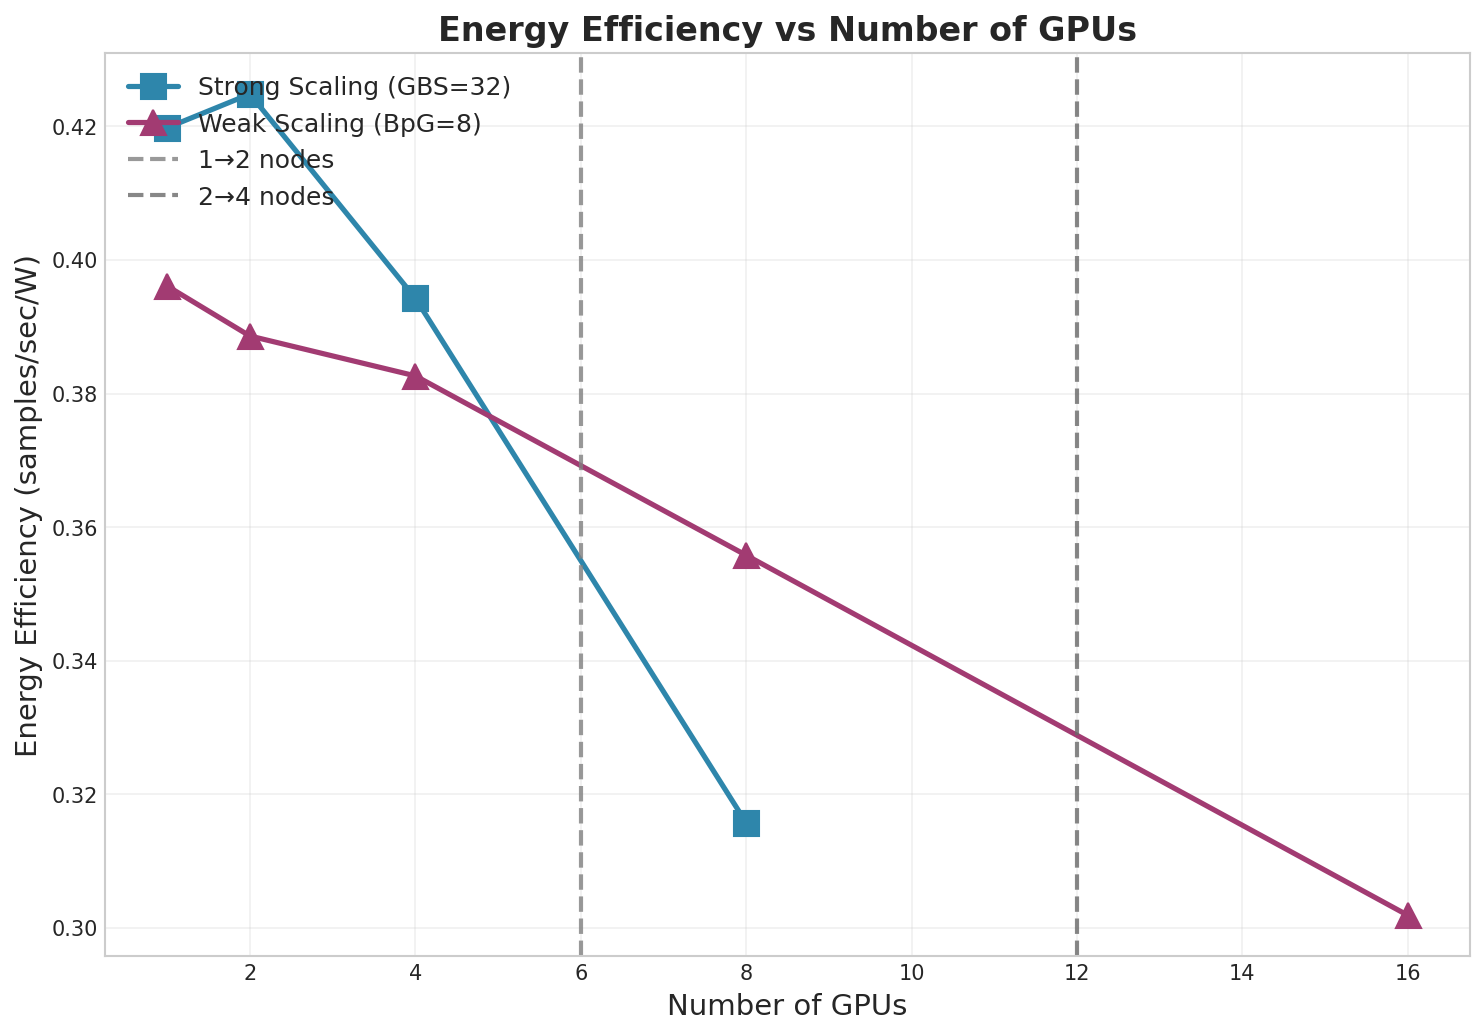
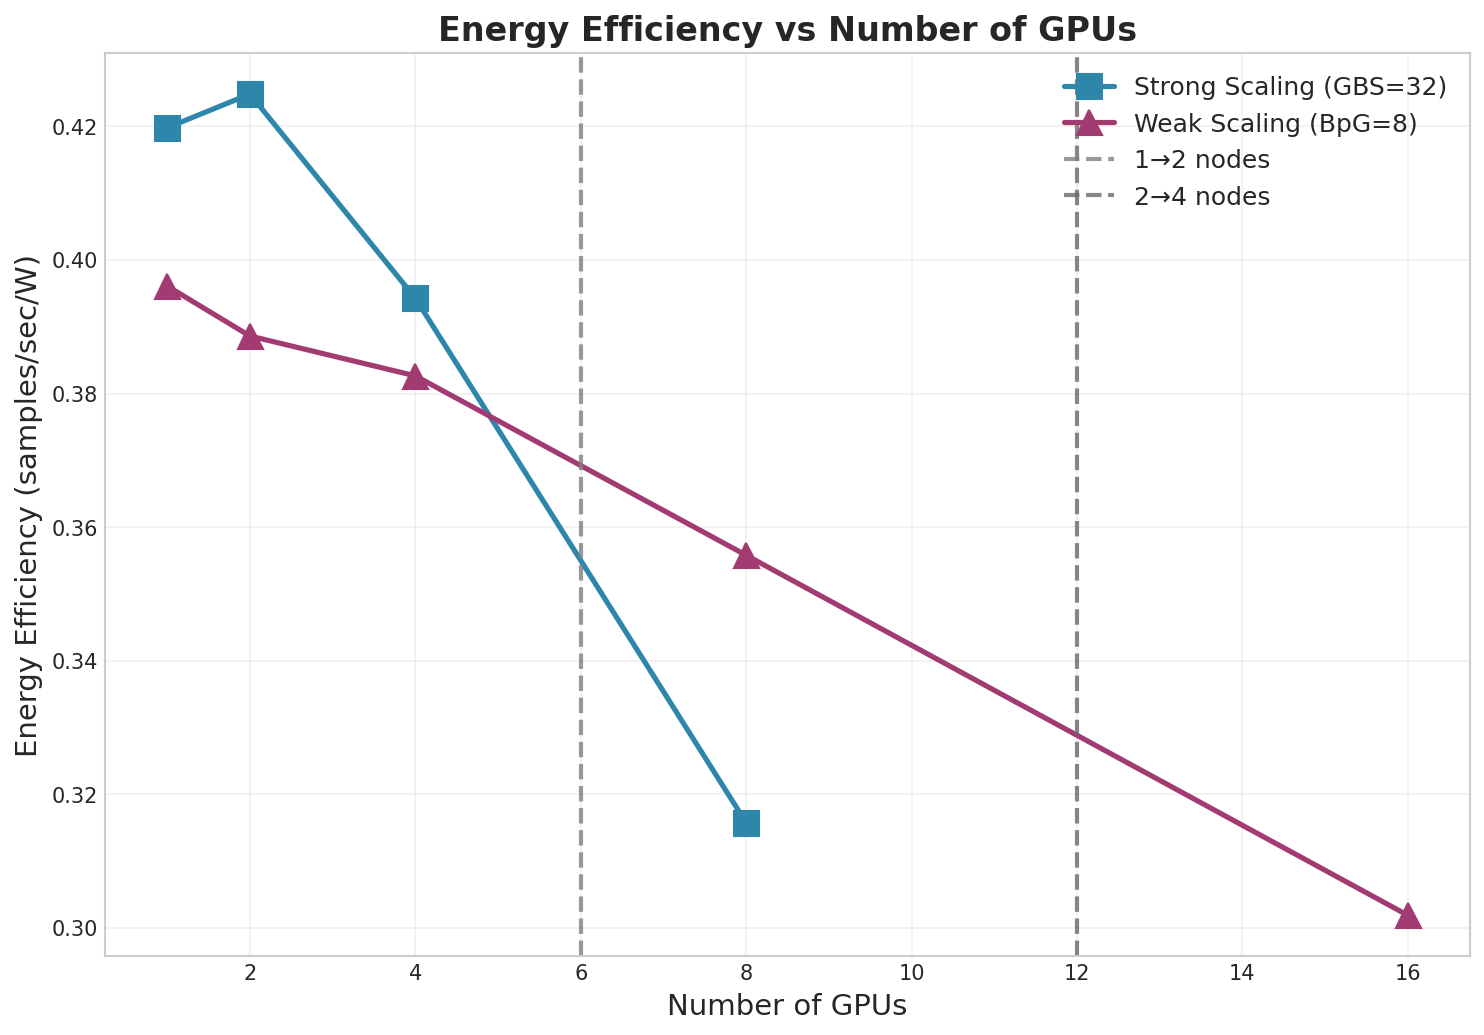
Update plot legend position and adjust benchmark scaling script configurations for improved testing

Changed region(s): [[0.7129, 0.0618, 0.9609, 0.2164], [0.093, 0.0618, 0.341, 0.2164]]

diff --git a/benchmark_results/plot.py b/benchmark_results/plot.py
@@ -365,7 +365,7 @@ ax.grid(True, alpha=0.3)
 # Vertical lines for node transitions
 ax.axvline(x=6, color='gray', linestyle='--', linewidth=2, alpha=0.8, label='1→2 nodes')
 ax.axvline(x=12, color='dimgray', linestyle='--', linewidth=2, alpha=0.8, label='2→4 nodes')
-ax.legend(loc='upper left', fontsize=12)
+ax.legend(loc='upper right', fontsize=12)
 
 plt.tight_layout()
 plt.savefig('plots/energy_efficiency.png', dpi=150, bbox_inches='tight')
